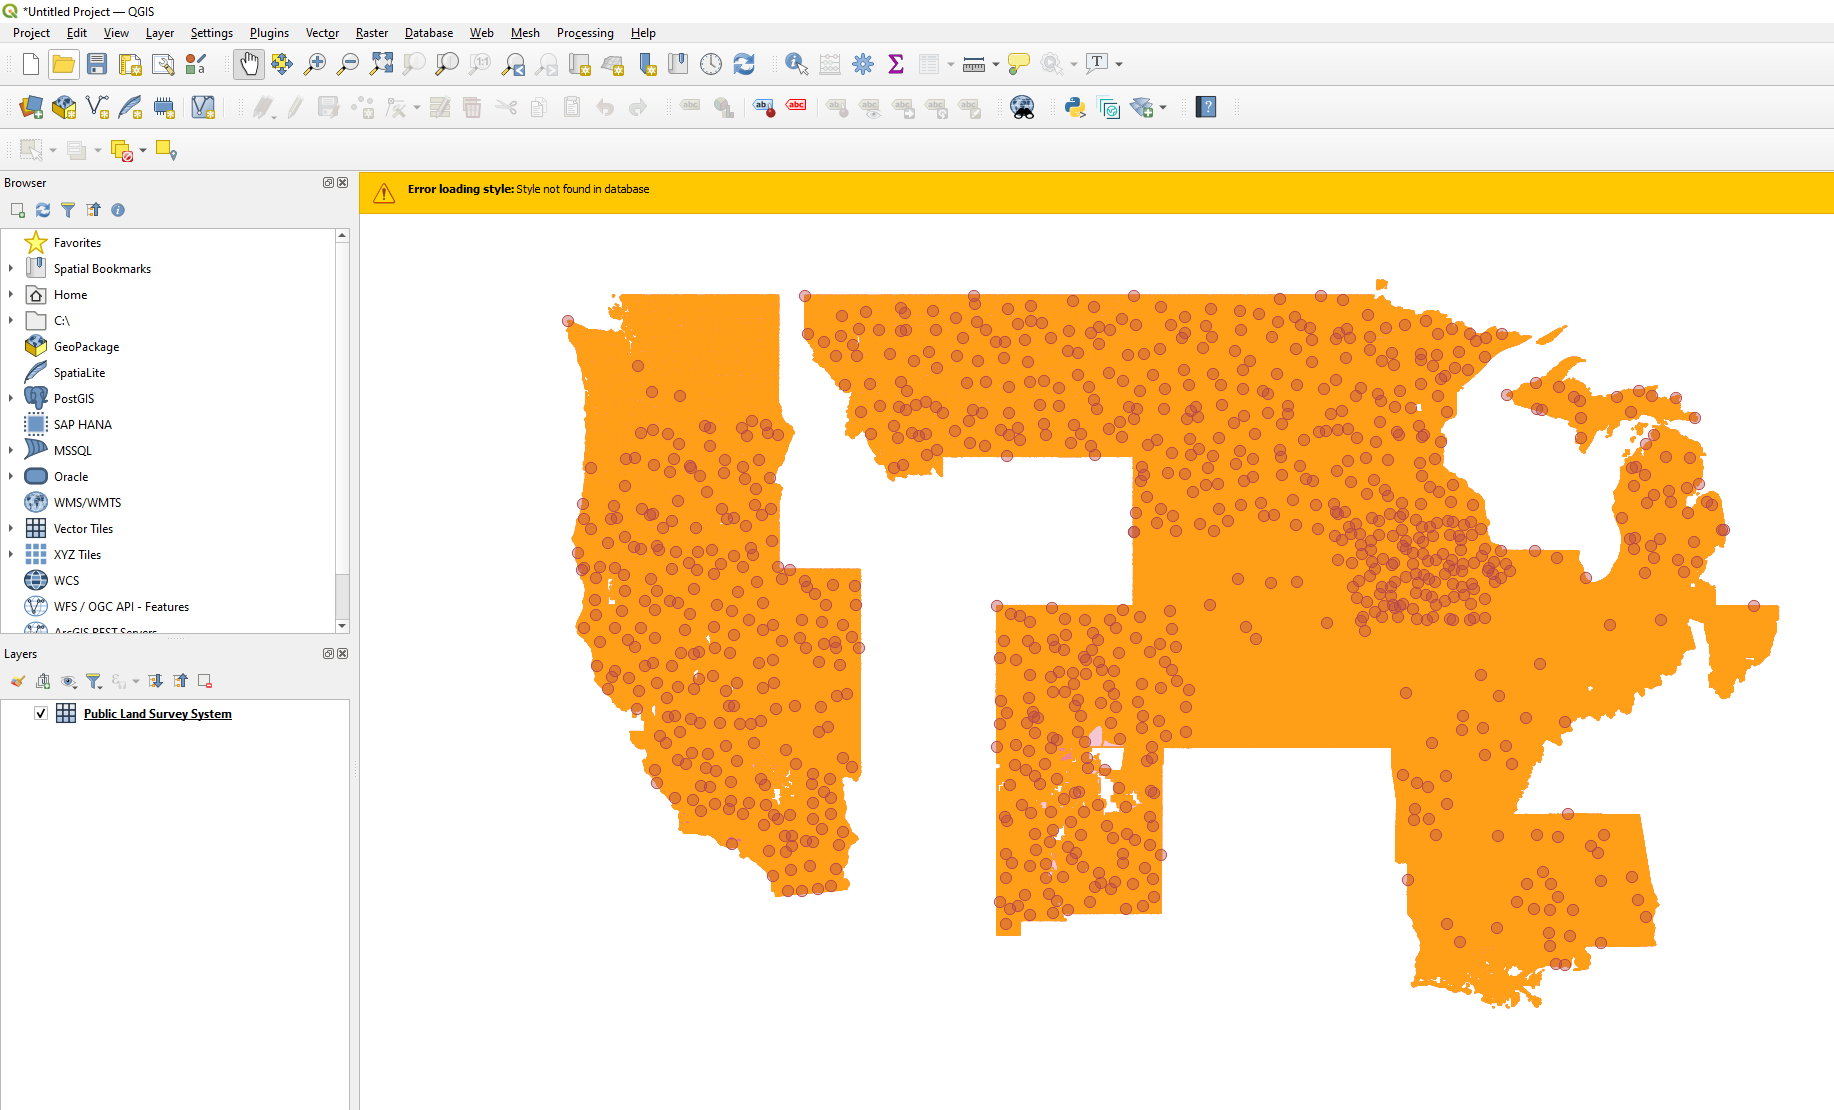
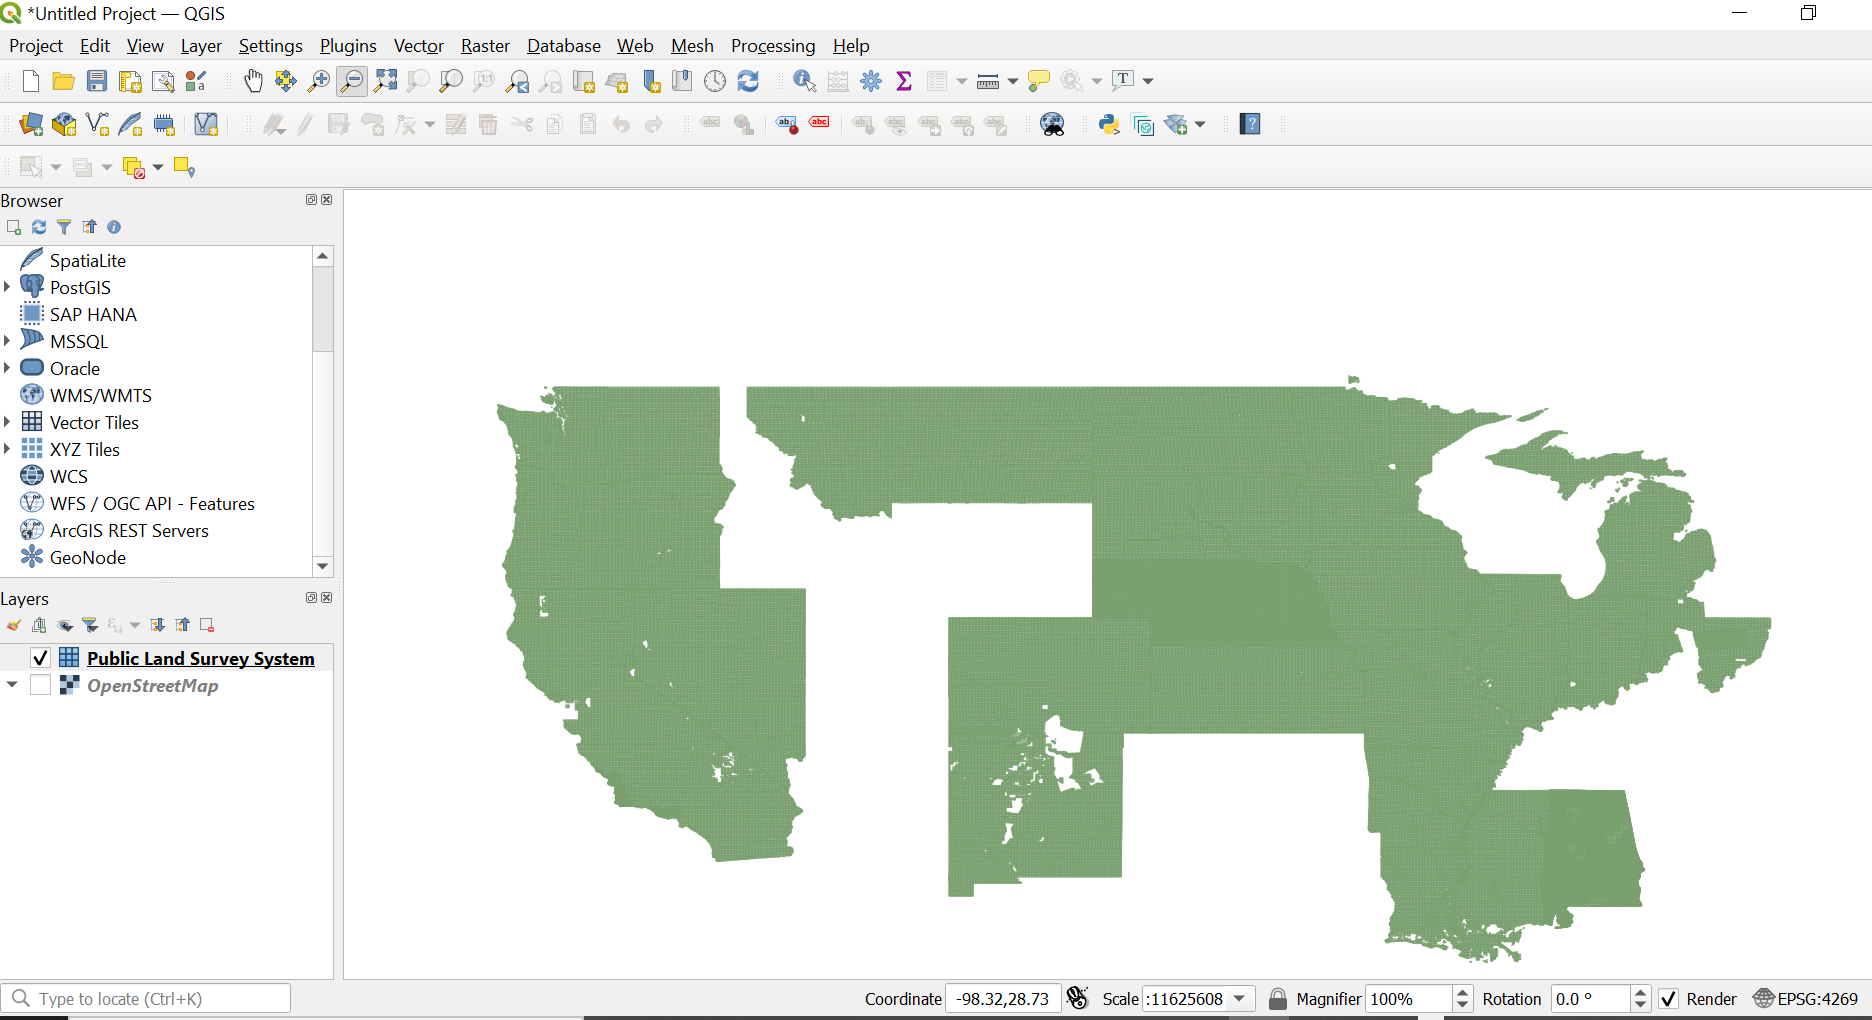
add steps to use a style.json for MVTs in QGIS

diff --git a/docs/qgis-mvt.md b/docs/qgis-mvt.md
@@ -31,10 +31,10 @@ QGIS is available on Windows, macOS, Linux and Android.
 2. Open QGIS and select `Layer` -> `Add Layer` -> `Add Vector Tile Layer`.![addLayer](assets/images/qgis-add-vector-layer.PNG)
 3. Choose `New` -> `New Generic Connection`.![addConnection](assets/images/mvt-xyz-connection.PNG)
 4. Enter in a friendly `Name` for your layer, then add the XYZ `URL`.
- *Optionally* specify a style URL. After the settings are configured, press `OK`. From the previous screen, you can select your new layer and `Add` to the map. 
+ *Optionally* specify a style URL. After the settings are configured, here we will use a style hosted on github (https://raw.githubusercontent.com/GeoPlatform/geoplatform-demos/GS-1350_PLSS_v2/mvt/styles/9b59f427_c0ad_5f8b_ac22_2dbdac882dfa/all.json), then press `OK`. From the previous screen, you can select your new layer and click `Add` to add it to the map. 
 ![connectionDetails](assets/images/qgis-vector-connection-details.PNG)   
 5. Final result.![result](assets/images/xyz-result.PNG)
-
+6. (optional) Inspect your style layer symbology in the layer properties![result](assets/images/qgis-mvt-style-properties.PNG)
 
 ### Example Using a MBTiles file
 1. In the Geoplatform Search results, use a data source with a *Geoplatform Cache MBTiles* pill button. Click the button to download the file.  
@@ -43,3 +43,4 @@ QGIS is available on Windows, macOS, Linux and Android.
 3. Open QGIS and select `Layer` -> `Add Layer` -> `Add Vector Layer`.![addLayer](assets/images/qgis-add-vector-layer-mbtiles.PNG)
 4. Choose `File` as source type and browse to your mbtile file using the `...` button. Once configured, click `Add`.![addConnection](assets/images/qgis-data-manager-mbtiles.PNG)
 5. Final result.![result](assets/images/mbtiles-result.PNG)
+
